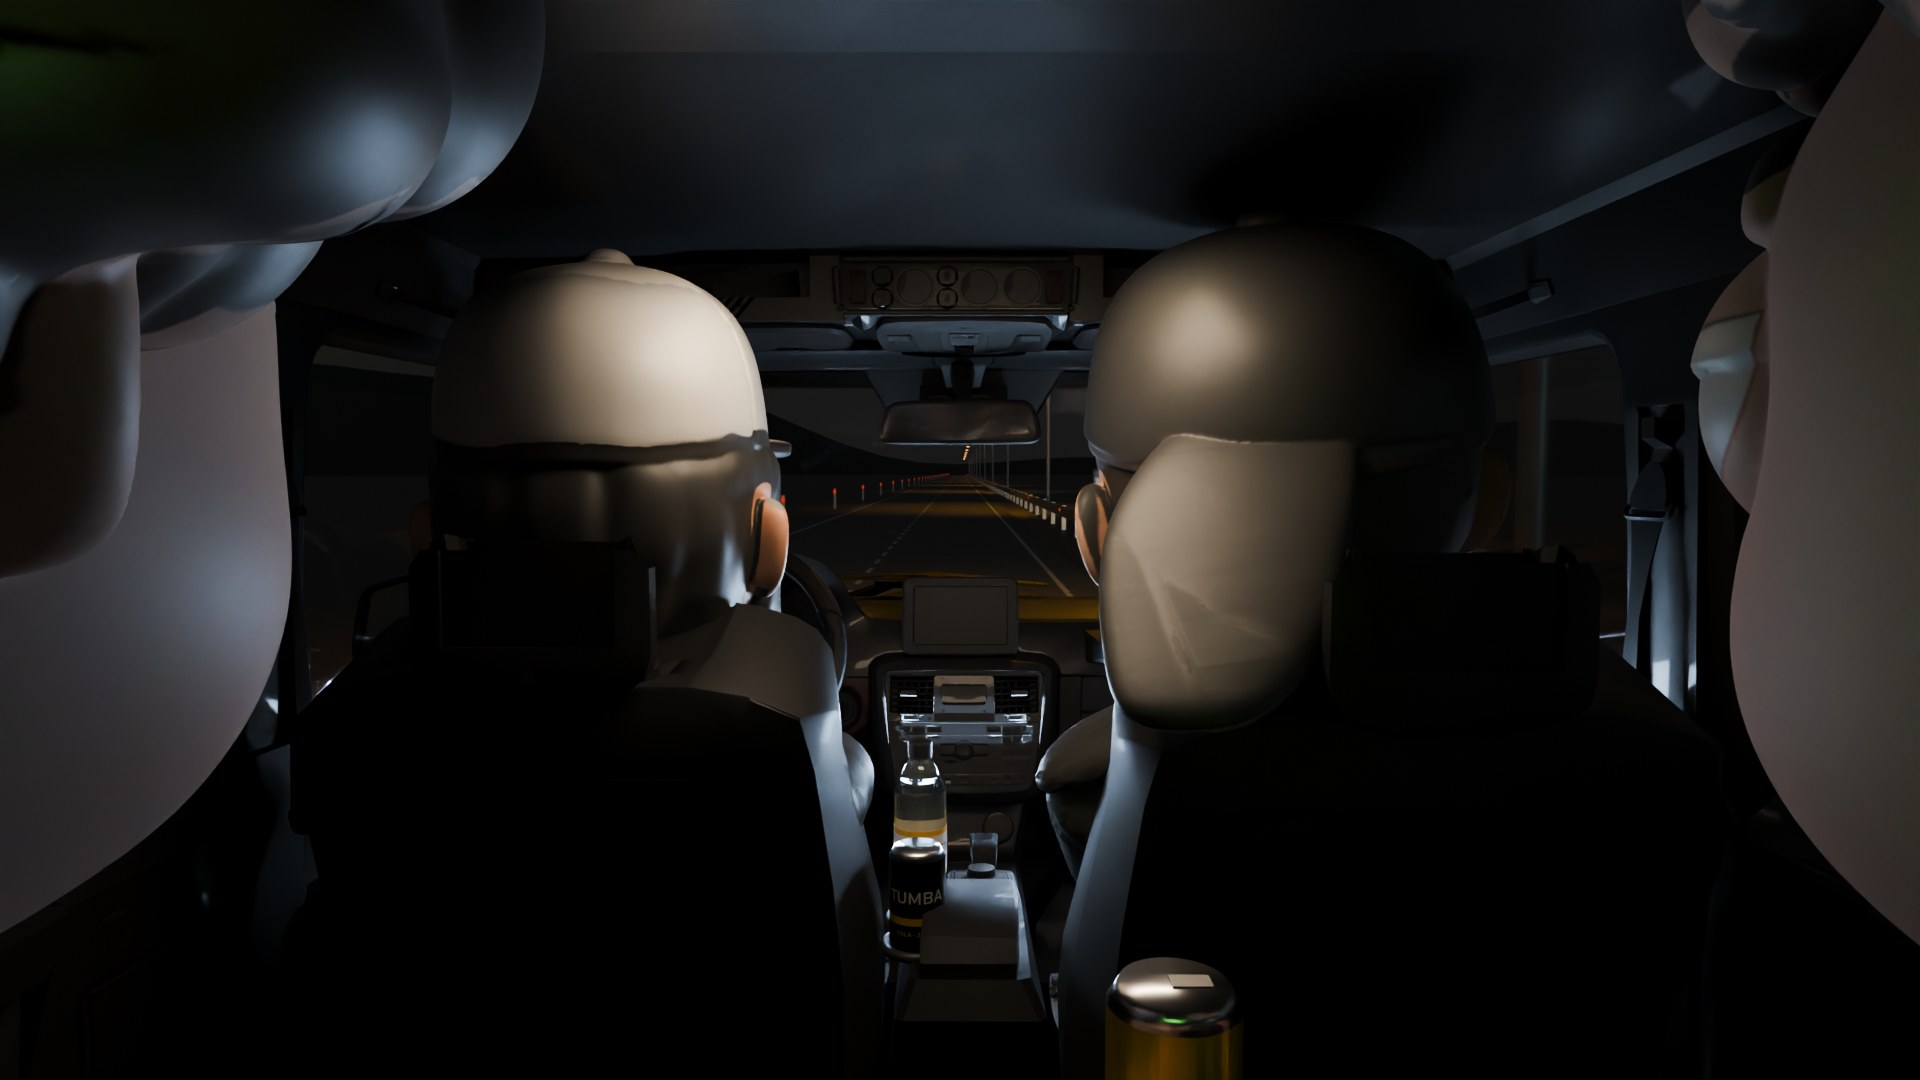
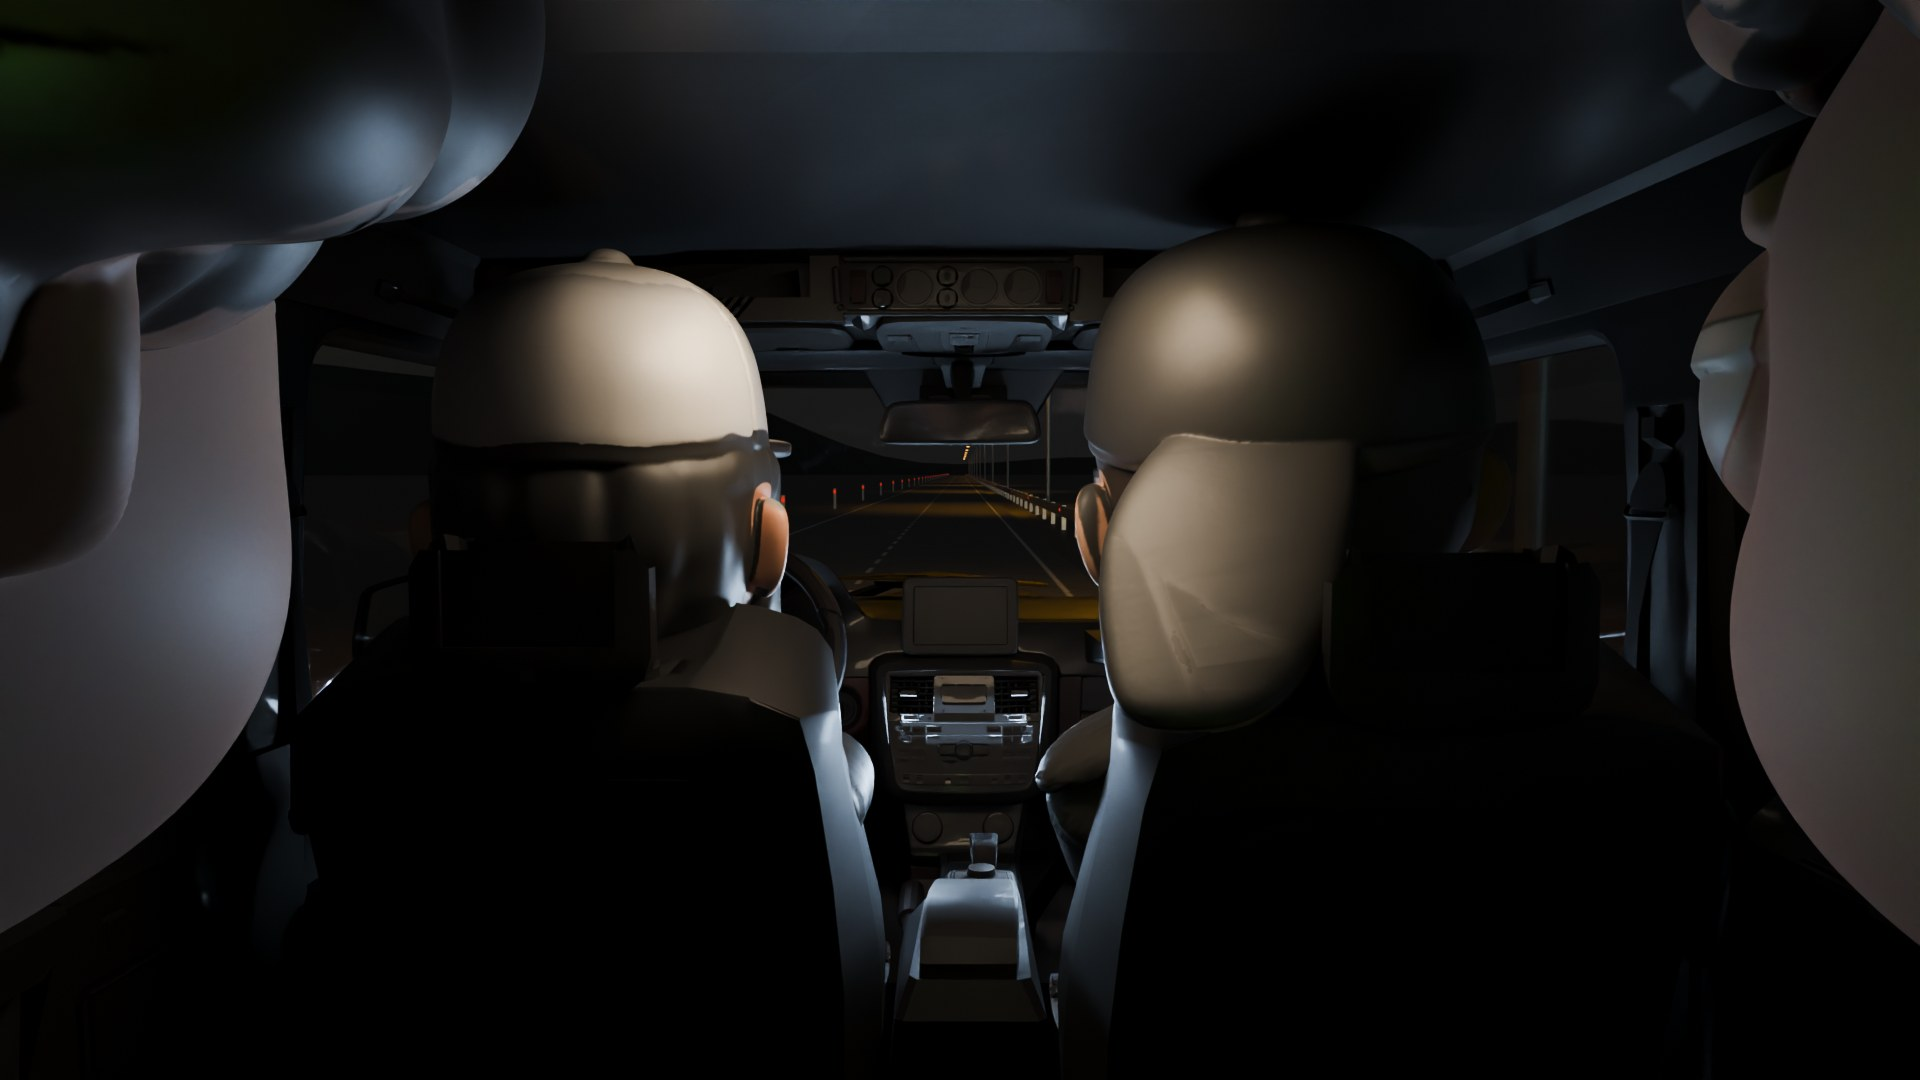
feat(escenas): caja5, el agua en la mano de Héctor; sin consola
El dueño descartó la consola: las bebidas van solo en la mano. Héctor
sostiene la botella de agua con la mano de la puerta, a la altura del
pecho, para que se vea por su ventana en la escena 4. La revisión de la
mano ahora se mide con el tamaño de la botella y contra los vértices de
la mano.

Claude-Session: https://claude.ai/code/session_01JDrAzBUxBgXnZLFDnfgAkQ

Changed region(s): [[0.4375, 0.7028, 0.5, 0.9167], [0.5625, 0.8861, 0.6562, 1.0], [0.8438, 0.4889, 0.9062, 0.6417]]

diff --git a/docs/design/escenas/utileria/index.html b/docs/design/escenas/utileria/index.html
@@ -33,7 +33,7 @@
 <body>
 <main>
 <h1>Utilería, ronda 2: elige una por objeto</h1>
-<p><b>Nuevo (14 nov, noche): la caja B con la bocina, la cerveza y el alien, y los refrescos en la cabina, en la primera sección.</b></p>
+<p><b>Nuevo (14 nov, noche): la caja B con la bocina, la cerveza y el alien, y el agua en la mano de Héctor, en la primera sección.</b></p>
 <p>Antes, el mismo día: la caja rehecha (elegiste B). En las escenas ya están tus elecciones: 3B, desde la puerta de atrás, y 4B, con la cabina prendida.</p>
 
 <section aria-labelledby="s-caja5">
@@ -46,15 +46,14 @@
 <li class="alta"><figure><a href="caja5-estudio-alien.jpg"><img src="caja5-estudio-alien-mini.jpg" alt="El alien inflable solo, en estudio: cabeza grande con ojos negros almendrados, cuerpo y brazos de vinil verde brillante con las costuras de inflado" loading="lazy" width="540" height="540" style="aspect-ratio: 1 / 1"></a><figcaption>El alien solo.</figcaption></figure></li>
 </ul>
 <p>Lo medido en la escena 2: lo nuevo no tapa nada de las calcas de la puerta (0 %), y se distinguen 3 objetos nuevos de un máximo de 4. La carga pasa la revisión del script con el alien incluido. Un defecto: en el hombro derecho del alien quedó un bulto donde en tu foto estaban los dedos de la persona.</p>
-<h3>Refrescos y agua: en la consola o en la mano</h3>
-<p>Las etiquetas son inventadas, sin marcas reales: una lata negra TUMBA COLA, una lata dorada ORO de toronja y una botella AGUA DE LA COSTA. Te muestro las dos formas que pediste.</p>
-<p><b>En la consola:</b> la lata y el agua en los portavasos entre los asientos de adelante. Se ven en la escena 1 sin tapar la carretera (0 %). En la escena 4 los tapa Héctor (<a href="caja5-bebidas-esc4.jpg">la escena 4 con las dos</a>). <b>En la mano:</b> la lata dorada en la mano libre de Diego, que descansa en el descansabrazos de atrás. Va pegada al hueso de la mano, así que sigue la pose, y no atraviesa la mano en ningún punto. Pero las figuras no cierran los dedos, así que se ve junto a la mano más que agarrada. Además, ninguna escena ve bien las manos de atrás: en la 4 las tapa la puerta, y en la 1 solo asoma la tapa de la lata en la orilla de abajo.</p>
+<h3>El agua, en la mano de Héctor</h3>
+<p>Quitaste la consola: las bebidas van solo en la mano. Héctor lleva una botella AGUA DE LA COSTA en lugar de la lata, y la lata de Diego ya no va. La etiqueta es inventada, sin marca real.</p>
+<p>Con las manos en los muslos, como estaba sentado, la botella no se veía en ninguna escena. Por eso le subí a Héctor la mano del lado de la puerta a la altura del pecho, y ahí la sostiene. La botella va pegada al hueso de la mano, así que sigue la pose, y ningún punto de la figura queda dentro de ella. Las figuras no cierran los dedos, así que la botella queda apoyada contra la mano. <b>Escena 4:</b> se ve por su ventana, chica, en la orilla de abajo del vidrio. <b>Escena 1:</b> no se ve, porque esa mano queda detrás de su asiento, y la carretera sigue despejada (0 %): <a href="caja5-bebidas-esc1.jpg">la escena 1</a>.</p>
 <ul class="escena">
-<li class="ancha"><figure><a href="caja5-bebidas-esc1.jpg"><img src="caja5-bebidas-esc1-mini.jpg" alt="Escena 1, desde atrás entre las cabeceras: Héctor y el mánager adelante, la carretera por el parabrisas y la lata y el agua en la consola entre los asientos" loading="lazy" width="960" height="540"></a><figcaption><b>Consola</b>Escena 1.</figcaption></figure></li>
-<li class="ancha"><figure><a href="caja5-bebidas-consola.jpg"><img src="caja5-bebidas-consola-mini.jpg" alt="De cerca: la lata negra TUMBA COLA y la botella AGUA DE LA COSTA en los portavasos de la consola" loading="lazy" width="960" height="540"></a><figcaption><b>Consola</b>De cerca.</figcaption></figure></li>
-<li class="ancha"><figure><a href="caja5-bebidas-mano.jpg"><img src="caja5-bebidas-mano-mini.jpg" alt="De cerca: la lata dorada ORO parada en el descansabrazos junto a la mano abierta de Diego" loading="lazy" width="960" height="540"></a><figcaption><b>Mano</b>De cerca.</figcaption></figure></li>
+<li class="ancha"><figure><a href="caja5-bebidas-mano.jpg"><img src="caja5-bebidas-mano-mini.jpg" alt="De cerca, por la ventana del copiloto: Héctor de perfil sostiene a la altura del pecho una botella transparente con etiqueta blanca y dorada AGUA DE LA COSTA" loading="lazy" width="960" height="540"></a><figcaption>De cerca, por su ventana.</figcaption></figure></li>
+<li class="ancha"><figure><a href="caja5-bebidas-esc4.jpg"><img src="caja5-bebidas-esc4-mini.jpg" alt="Escena 4, de lado con la cabina prendida: el alien en la caja y, en la ventana de adelante, Héctor con la botella de agua en la mano" loading="lazy" width="960" height="540"></a><figcaption>Escena 4.</figcaption></figure></li>
 </ul>
-<p><b>Me quedaría con la consola:</b> se ve en la escena 1 y no tapa nada. Para que una lata en la mano se vea, habría que cambiar la pose de alguien. Responde «consola», «mano» o «las dos», y si el alien va bien ahí.</p>
+<p>La consola que descartaste queda solo como enlace: <a href="caja5-bebidas-consola.jpg">la lata y el agua en los portavasos</a>. Dime si la botella va bien así y si el alien va bien ahí.</p>
 <p>La hoja de 12 que viste antes sigue <a href="caja5-props.jpg">aquí</a> (elegiste la 5 y la 7).</p>
 </section>
 <p><b>Elegidas (03:22): pantalla B y caja B.</b> Lo que pediste en la ronda 1, de noche y con la G63. Responde con la letra de cada objeto (por ejemplo «pantalla A, placa B»). La ronda 1 sigue en <a href="ronda1.html">su propia página</a>.</p>

diff --git a/blender/caja5.py b/blender/caja5.py
@@ -567,38 +567,77 @@ def bebidas_consola():
     _g["dg"] = bpy.context.evaluated_depsgraph_get()
 
 
-def bebida_en_mano(fig="diego", hueso="mano_p", tipo="lata-oro"):
-    """(b) A can in a rider's free hand: Diego's inner hand rests on the rear armrest (bone tip probed 11-14: no rider's hand is in clear view of the 4B cameras). The figures have one
-    bone per hand and no fingers, so the can stands against the hand, never through it: a search round the hand keeps the spot
-    where no hand vertex is inside the can and the gap to the hand is smallest, then parents it to the hand bone (it follows the
-    pose). Prints CAJA5 MANO with the vertices inside (a fail if > 0) and the gap."""
+MANO_POSE = os.environ.get("CAJA5_POSE", "ventana")
+POSES = {  # Héctor's hand that holds the bottle, and where it goes from the shoulder (armature units; None: left on the thigh)
+    "regazo": ("mano_p", None),                      # console side, as posed: the bottle sits below every scene camera
+    "alzada": ("mano_p", (0.0, -0.22, -0.10)),       # console side over the lap: below the window sill
+    "alta": ("mano_p", (0.0, -0.20, 0.04)),          # console side at the mouth: the bottle floats by his ear
+    "ventana": ("mano_n", (0.0, -0.24, 0.0)),        # door side at the chest: seen through his window (scene 4B)
+}
+ALZADA = []
+
+
+def alzar_mano(fig="hector", lado=1, objetivo=(0.0, -0.22, -0.10), polo=(1.0, 0.2, -1.0)):
+    """Raise one hand off the thigh, as if holding a bottle in front of the belly: re-keys frame 0 with transicion's own Pose and
+    two-bone IK (brazo). `objetivo` is the hand's end point from the shoulder, in armature units (the figure faces -Y). Every
+    other bone gets sentar()'s frame-0 direction for Héctor (head from h_cabeza(0), the other hand on the thigh, as regazo)."""
+    rig = bpy.data.objects[fig + "_rig"]
+    j = {b.name: (b.head_local.copy(), b.tail_local.copy()) for b in rig.data.bones}
+    P = T.Pose(rig, j)
+    otro = -lado
+    k_otro = "n" if otro < 0 else "p"
+    rodilla = P.j[f"muslo_{k_otro}"][0] + Vector((0.02 * otro, -0.16, 0.06))
+    k = "n" if lado < 0 else "p"
+    dirs = {"columna": Vector((0, 0.10, 1)).normalized(), "cabeza": Vector((0.10, 0.0, 1)).normalized(),
+            "muslo_n": Vector((-0.12, -1, -0.04)).normalized(), "muslo_p": Vector((0.12, -1, -0.04)).normalized(),
+            "pierna_n": Vector((-0.05, -0.25, -1)).normalized(), "pierna_p": Vector((0.05, -0.25, -1)).normalized()}
+    dirs.update(T.brazo(P, otro, rodilla, Vector((otro * 1.0, 0.5, -0.6))))
+    dirs.update(T.brazo(P, lado, P.j[f"brazo_{k}"][0] + Vector(objetivo), Vector(polo)))
+    P.poner(dirs, 0)
+    sc.frame_set(0)
+    bpy.context.view_layer.update()
+
+
+def bebida_en_mano(fig="hector", hueso=POSES[MANO_POSE][0], tipo="agua"):
+    """(b) A drink in a rider's hand (owner 11-14: drinks in the hand only; Héctor holds the water bottle, his console-side hand).
+    The figures have one bone per hand and no fingers, so the drink stands against the hand, never through it: a search round
+    the hand keeps the spot where no body vertex is inside the drink and the gap to the hand's own vertices (its vertex group)
+    is smallest, the hand partway up a bottle; then it parents the drink to the hand bone (it follows the pose). Prints CAJA5
+    MANO with the vertices inside (a fail if > 0) and the gap."""
     asientos_traseros()
+    if fig == "hector" and POSES[MANO_POSE][1] and not ALZADA:
+        lado = -1 if hueso.endswith("_n") else 1
+        alzar_mano(lado=lado, objetivo=POSES[MANO_POSE][1], polo=(lado * 1.0, 0.2, -1.0))
+        ALZADA.append(1)
     bpy.context.view_layer.update()
     rig, cuerpo = bpy.data.objects[fig + "_rig"], bpy.data.objects[fig]
     b = rig.pose.bones[hueso]
     centro = rig.matrix_world @ ((b.head + b.tail) / 2)
+    R, H = (0.0335, 0.23) if tipo == "agua" else (0.033, 0.122)
     dg = bpy.context.evaluated_depsgraph_get()
     ev = cuerpo.evaluated_get(dg)
     me = ev.to_mesh()
-    vs = [ev.matrix_world @ v.co for v in me.vertices]
+    gi = cuerpo.vertex_groups[hueso].index
+    vs = [(ev.matrix_world @ v.co, any(g.group == gi and g.weight >= 0.5 for g in v.groups)) for v in me.vertices]
     ev.to_mesh_clear()
-    cerca = [v for v in vs if (v - centro).length < 0.2]
-    R, H = 0.033, 0.122
+    cerca = [p for p in vs if (p[0] - centro).length < H + 0.12]
+    bajo = range(-16, 3) if tipo == "agua" else range(-8, 3)
     mejor = None
-    for dz in [k * 0.01 for k in range(-8, 3)]:
+    for dz in [k * 0.01 for k in bajo]:
         for dx in [k * 0.01 for k in range(-9, 10)]:
             for dy in [k * 0.01 for k in range(-9, 10)]:
                 base = centro + Vector((dx, dy, dz))
                 dentro, gap = 0, 9.0
-                for v in cerca:
+                for v, mano in cerca:
                     if base.z <= v.z <= base.z + H:
                         rr = math.hypot(v.x - base.x, v.y - base.y)
                         if rr < R:
                             dentro += 1
                             break
-                        gap = min(gap, rr - R)
+                        if mano:
+                            gap = min(gap, rr - R)
                 if dentro == 0 and gap < 9:
-                    clave = (round(gap, 3), abs(dz), math.hypot(dx, dy))
+                    clave = (round(gap, 3), abs(dz + 0.4 * H) if tipo == "agua" else abs(dz), math.hypot(dx, dy))
                     if mejor is None or clave < mejor[0]:
                         mejor = (clave, base)
     base = mejor[1] if mejor else centro
@@ -609,21 +648,23 @@ def bebida_en_mano(fig="diego", hueso="mano_p", tipo="lata-oro"):
     raiz.parent, raiz.parent_type, raiz.parent_bone = rig, "BONE", hueso
     raiz.matrix_world = M
     bpy.context.view_layer.update()
-    dentro = sum(1 for v in cerca if base.z <= v.z <= base.z + H and math.hypot(v.x - base.x, v.y - base.y) < R)
-    print(f"CAJA5 MANO {fig} {hueso} base {tuple(round(x, 3) for x in base)} dentro {dentro} gap {mejor[0][0] if mejor else 'nan'} m"
+    dentro = sum(1 for v, _m in cerca if base.z <= v.z <= base.z + H and math.hypot(v.x - base.x, v.y - base.y) < R)
+    print(f"CAJA5 MANO {fig} {hueso} {tipo} pose {MANO_POSE} base {tuple(round(x, 3) for x in base)} dentro {dentro} gap {mejor[0][0] if mejor else 'nan'} m"
           f" -> {'PASS' if dentro == 0 and mejor else 'FAIL'}")
     return base
 
 
-def medir1(nombre, pos, mira, lens):
+def medir1(nombre, pos, mira, lens, pasa_vidrio=False, paso=5):
     """Scene 1, rule 1: of the road band seen through the windshield (glass hits ahead of the cab's middle, below 1.87 m: the
-    lower 70 % of the glass, props_placement.py's band), the share covered by the drinks (≤ 2 %)."""
+    lower 70 % of the glass, props_placement.py's band), the share covered by the drinks (≤ 2 %). pasa_vidrio: rays go on
+    through any other glass (a side window, told by the hit face's material), to count the drinks' visible pixels from outside
+    the cab (scene 4). paso: one ray per paso × paso pixels (2 for a drink that is a few pixels wide)."""
     for ob in sc.objects:
         if ob.hide_render and not ob.hide_viewport:
             ob.hide_viewport = True
     bpy.context.view_layer.update()
     dg = bpy.context.evaluated_depsgraph_get()
-    W, H = RW // 5, RH // 5
+    W, H = RW // paso, RH // paso
     R = (Vector(mira) - Vector(pos)).to_track_quat("-Z", "Y").to_matrix()
     th = 18 / lens
     nuevos = {o.name for o in GRUPO if o.name.startswith("k5_bebida") or (o.parent and o.parent.name.startswith("k5_bebida"))}
@@ -646,16 +687,22 @@ def medir1(nombre, pos, mira, lens):
                 if m and m.name.startswith("vidrio") and loc.y > 0.6 and loc.z < 1.87:
                     zona += 1
                     cubierta += tapado
+                elif pasa_vidrio and ob.type == "MESH" and idx < len(ob.data.polygons) and \
+                        (ob.material_slots[ob.data.polygons[idx].material_index].material.name.startswith(("vidrio", "mica"))):
+                    o = loc + d * 0.001
+                    continue
                 break
     r1 = 100.0 * cubierta / zona if zona else float("nan")
-    print(f"CAJA5 MEDIDA {nombre} camino {zona} px cubierto {r1:.2f} % -> r1 {'PASS' if zona and r1 <= 2 else 'FAIL'} | bebidas visibles {vis} px")
+    print(f"CAJA5 MEDIDA {nombre} camino {zona} px cubierto {r1:.2f} % -> r1 {'PASS' if zona and r1 <= 2 else 'FAIL'} | bebidas visibles {vis} px"
+          f" (1 ray per {paso}x{paso} px)")
 
 
 @opcion("caja5-bebidas-esc1")
 def bebidas_esc1():
-    """(a) in scene 1's hold: between the rear headrests, 20 mm, the road through the windshield (transicion.CAMINO[0])."""
+    """Scene 1's hold with the drink in the hand (owner 11-14: no console): between the rear headrests, 20 mm, the road
+    through the windshield (transicion.CAMINO[0])."""
+    cama_elegida()
     base_escena()
-    bebidas_consola()
     bebida_en_mano()
     t1 = toma((T.CAMINO[0][1], T.CAMINO[0][2], T.CAMINO[0][3]), (T.CAMINO[0][1], T.CAMINO[0][2], v(T.CAMINO[0][3])))
     medir1("caja5-bebidas-esc1", *t1)
@@ -664,16 +711,17 @@ def bebidas_esc1():
 
 @opcion("caja5-bebidas-esc4")
 def bebidas_esc4():
-    """Both placements in scene 4B's hold (passenger side, the lit cab)."""
+    """Scene 4B's hold (passenger side, the lit cab) with the drink in the hand."""
+    cama_elegida()
     t4 = esc4_cabina()
-    bebidas_consola()
     bebida_en_mano()
+    medir1("caja5-bebidas-esc4", *t4, pasa_vidrio=True, paso=2)
     return t4
 
 
 @opcion("caja5-bebidas-consola")
 def bebidas_cerca_consola():
-    """(a) close: the console from over the rear armrest."""
+    """(a) close: the console from over the rear armrest. Dropped by the owner 11-14 (kept as a text link on the page)."""
     base_escena()
     bebidas_consola()
     luz("AREA", (CX - 0.05, 0.5, 2.05), 6, (1.0, 0.85, 0.65), mira=(CX - 0.05, 0.52, 1.4), size=0.4, parent=False)
@@ -681,14 +729,25 @@ def bebidas_cerca_consola():
     return ((CX + 0.12, -0.15, 1.78), (CX - 0.05, 0.52, 1.42), 30)
 
 
-@opcion("caja5-bebidas-mano")
-def bebidas_cerca_mano():
-    """(b) close: the can at Diego's hand on the rear armrest, from the other rear seat."""
+def cama_elegida():
+    _g["caja2_b"] = lambda: vestir("elegida")  # base_escena() dresses bed B with the owner's picks, whatever ran before
+
+
+def cerca_mano(cam):
+    cama_elegida()
     base_escena()
     p = bebida_en_mano()
-    luz("AREA", p + Vector((-0.2, 0.1, 0.6)), 5, (1.0, 0.85, 0.65), mira=p, size=0.4, parent=False)
+    c = p + Vector((0, 0, 0.11))
+    luz("AREA", c + Vector((-0.25, 0.25, 0.45)), 5, (1.0, 0.85, 0.65), mira=c, size=0.4, parent=False)
     sin_camara()
-    return ((CX - 0.30, -0.05, 1.80), p + Vector((0, 0, 0.06)), 32)
+    m = c + Vector((0, 0, 0.12))  # between the bottle and his face: both in frame, the door below kept to a strip
+    return (m + Vector(cam), m, 32)
+
+
+@opcion("caja5-bebidas-mano")
+def bebidas_cerca_mano():
+    """(b) close: Héctor's water bottle, from outside his window (scene 4B's side), closer."""
+    return cerca_mano((0.95, -0.20, 0.12))
 
 
 # Studio: each candidate alone in a closed grey box far above the set, key / fill / rim, 1:1 (render at 1080x1080).

diff --git a/docs/handoffs/2026-11-14-caja5-props.md b/docs/handoffs/2026-11-14-caja5-props.md
@@ -40,3 +40,16 @@ The round is done and committed. The page section is `s-caja5`, at the top of `d
 ## Not done
 - No 9:16 versions of the caja5 stills.
 - The scene stills `esc2..5` are not re-dressed with the alien yet: they still show plain B from caja4.
+
+## Update 19:50, breaddrone: drinks in the hand only
+The owner dropped the console. The drinks are now in the hand only, and Héctor holds the water bottle instead of Diego's can.
+- `bebida_en_mano()` defaults to Héctor, `mano_n` (his door-side hand), `agua`. The pose comes from `CAJA5_POSE` (default
+  `ventana`), and the other poses are kept in `POSES` with the reason each was dropped. `alzar_mano()` re-keys frame 0 with
+  transicion's `Pose`/`brazo`. The check is now sized for the drink (bottle R 0.0335, H 0.23), and the gap is measured to the
+  hand's own vertex group.
+- The drinks options dress bed B themselves (`cama_elegida()`). Before, they relied on `caja5-elegida-esc2` running first.
+- `medir1(..., pasa_vidrio=True, paso=2)` counts what shows through a side window (scene 4).
+- Numbers (tmp/caja6/final.log): MANO hector mano_n agua: 0 inside, gap 0.002 m, PASS. Scene 1: road 0.00 % covered, bottle
+  0 px (his hand is behind the seat). Scene 4: bottle 90 rays at 2×2 px. Scene 2: r1 0.00 %, r3 3 of 4. revisar 3/3 with
+  0 FAIL. Web 2.93 MB. slop-check exit 0.
+- On the page, the console is a text link and so is scene 1. The figures are the close-up through his window and scene 4.
